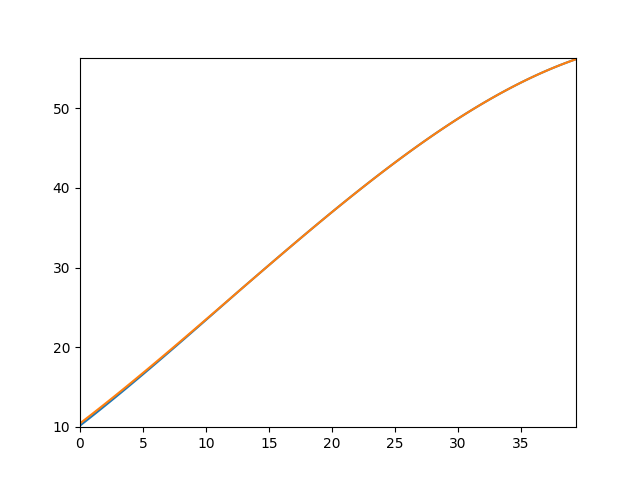
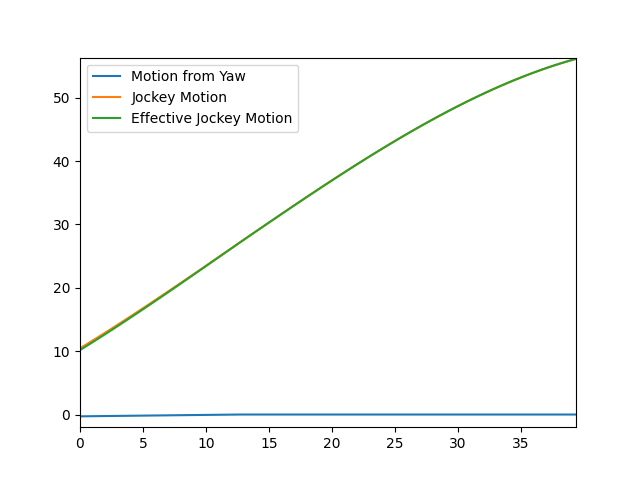
Improve plot

diff --git a/1e-analyze_derailleur.py b/1e-analyze_derailleur.py
@@ -66,11 +66,12 @@ def process_der(dir):
   y_new = pull_curve(x_new) + jockey_offset_curve(x_new)
   
   plt.clf()
-  plt.plot(x_new, y_new)
-  plt.plot(x_new, [pull_curve(x) for x in x_new])
-  plt.plot(x_new, [yaw_angle_curve(x) for x in x_new])
+  plt.plot(x_new, [jockey_offset_curve(x) for x in x_new], label="Motion from Yaw")
+  plt.plot(x_new, [pull_curve(x) for x in x_new], label="Jockey Motion")
+  plt.plot(x_new, y_new, label="Effective Jockey Motion")
   plt.xlim([0, max_pull])
-  plt.ylim([y_new.min() - 0.2, y_new.max() + 0.2])
+  plt.ylim([ -2, y_new.max() + 0.2])
+  plt.legend()
   plt.savefig(f"derailleurs/{dir}/effective_pull_curve.png")
   plt.close()
 
@@ -82,11 +83,12 @@ def process_der(dir):
   y_new = pull_ratio_curve(x_new) + jockey_offset_rate_curve(x_new)
   
   plt.clf()
-  plt.plot(x_new, y_new)
-  plt.plot(x_new, [jockey_offset_rate_curve(x) for x in x_new])
-  plt.plot(x_new, [pull_ratio_curve(x) for x in x_new])
+  plt.plot(x_new, [jockey_offset_rate_curve(x) for x in x_new], label="Pull Ratio from Yaw")
+  plt.plot(x_new, [pull_ratio_curve(x) for x in x_new], label="Base Pull Ratio")
+  plt.plot(x_new, y_new, label="Effective Pull Ratio")
   plt.xlim([0, max_pull])
-  plt.ylim([y_new.min() - 0.2, y_new.max() + 0.2])
+  plt.ylim([-0.2, y_new.max() + 0.2])
+  plt.legend()
   plt.savefig(f"derailleurs/{dir}/effective_pull_ratio_curve.png")
   plt.close()
 
